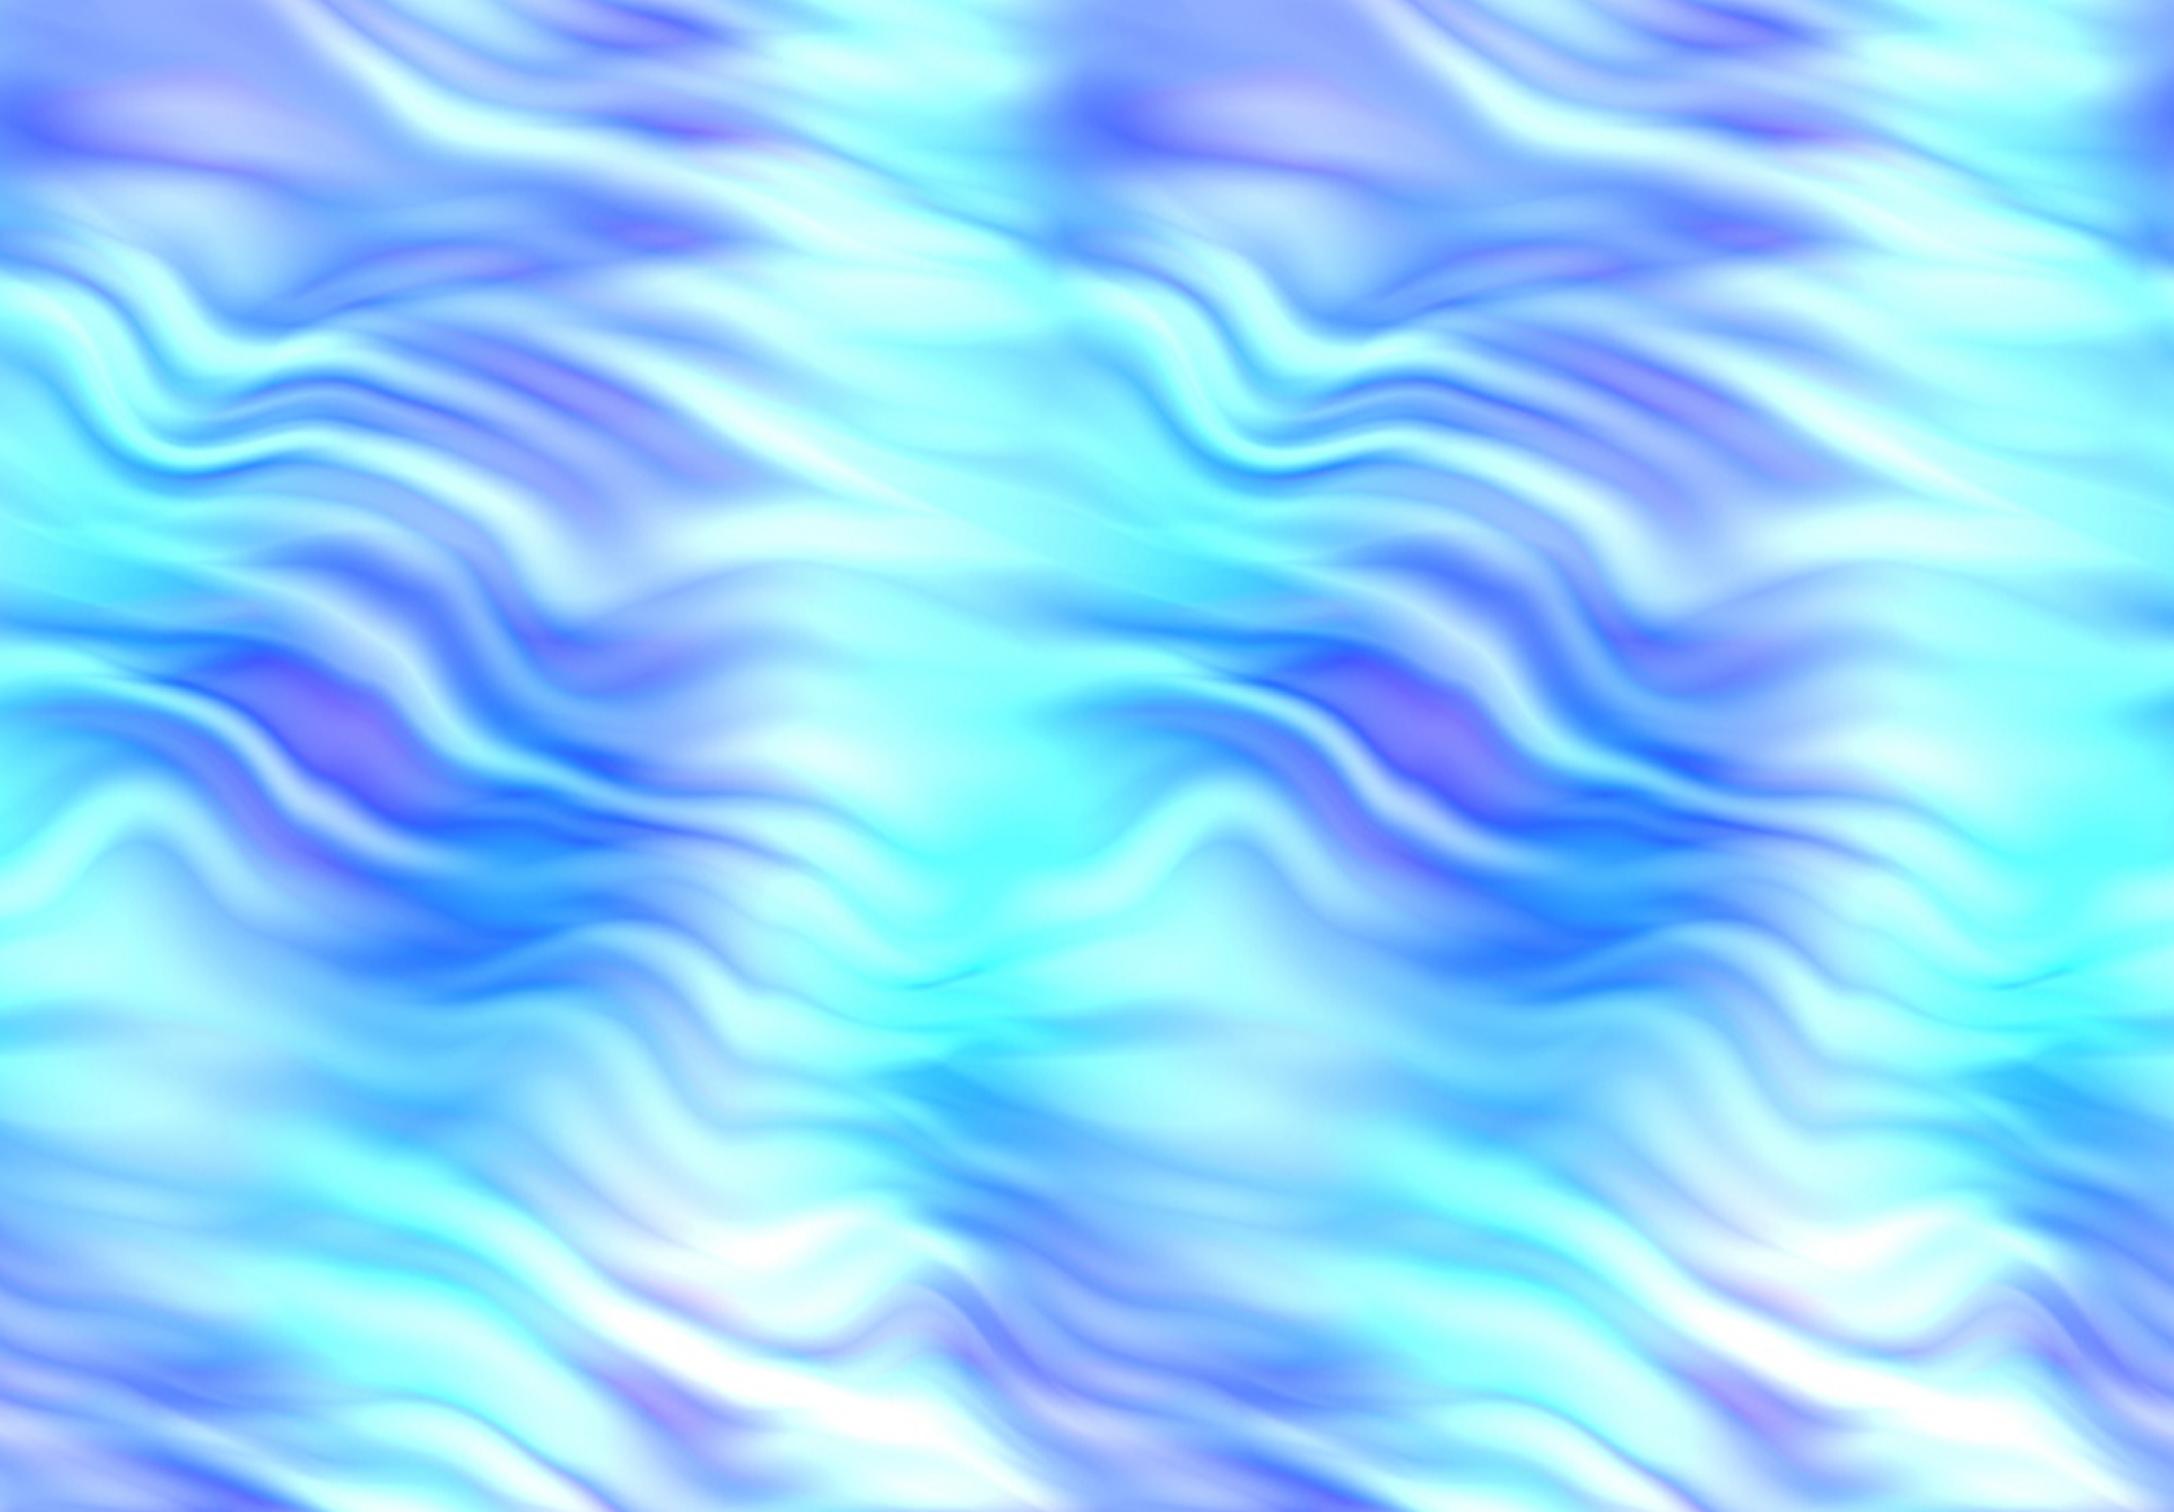
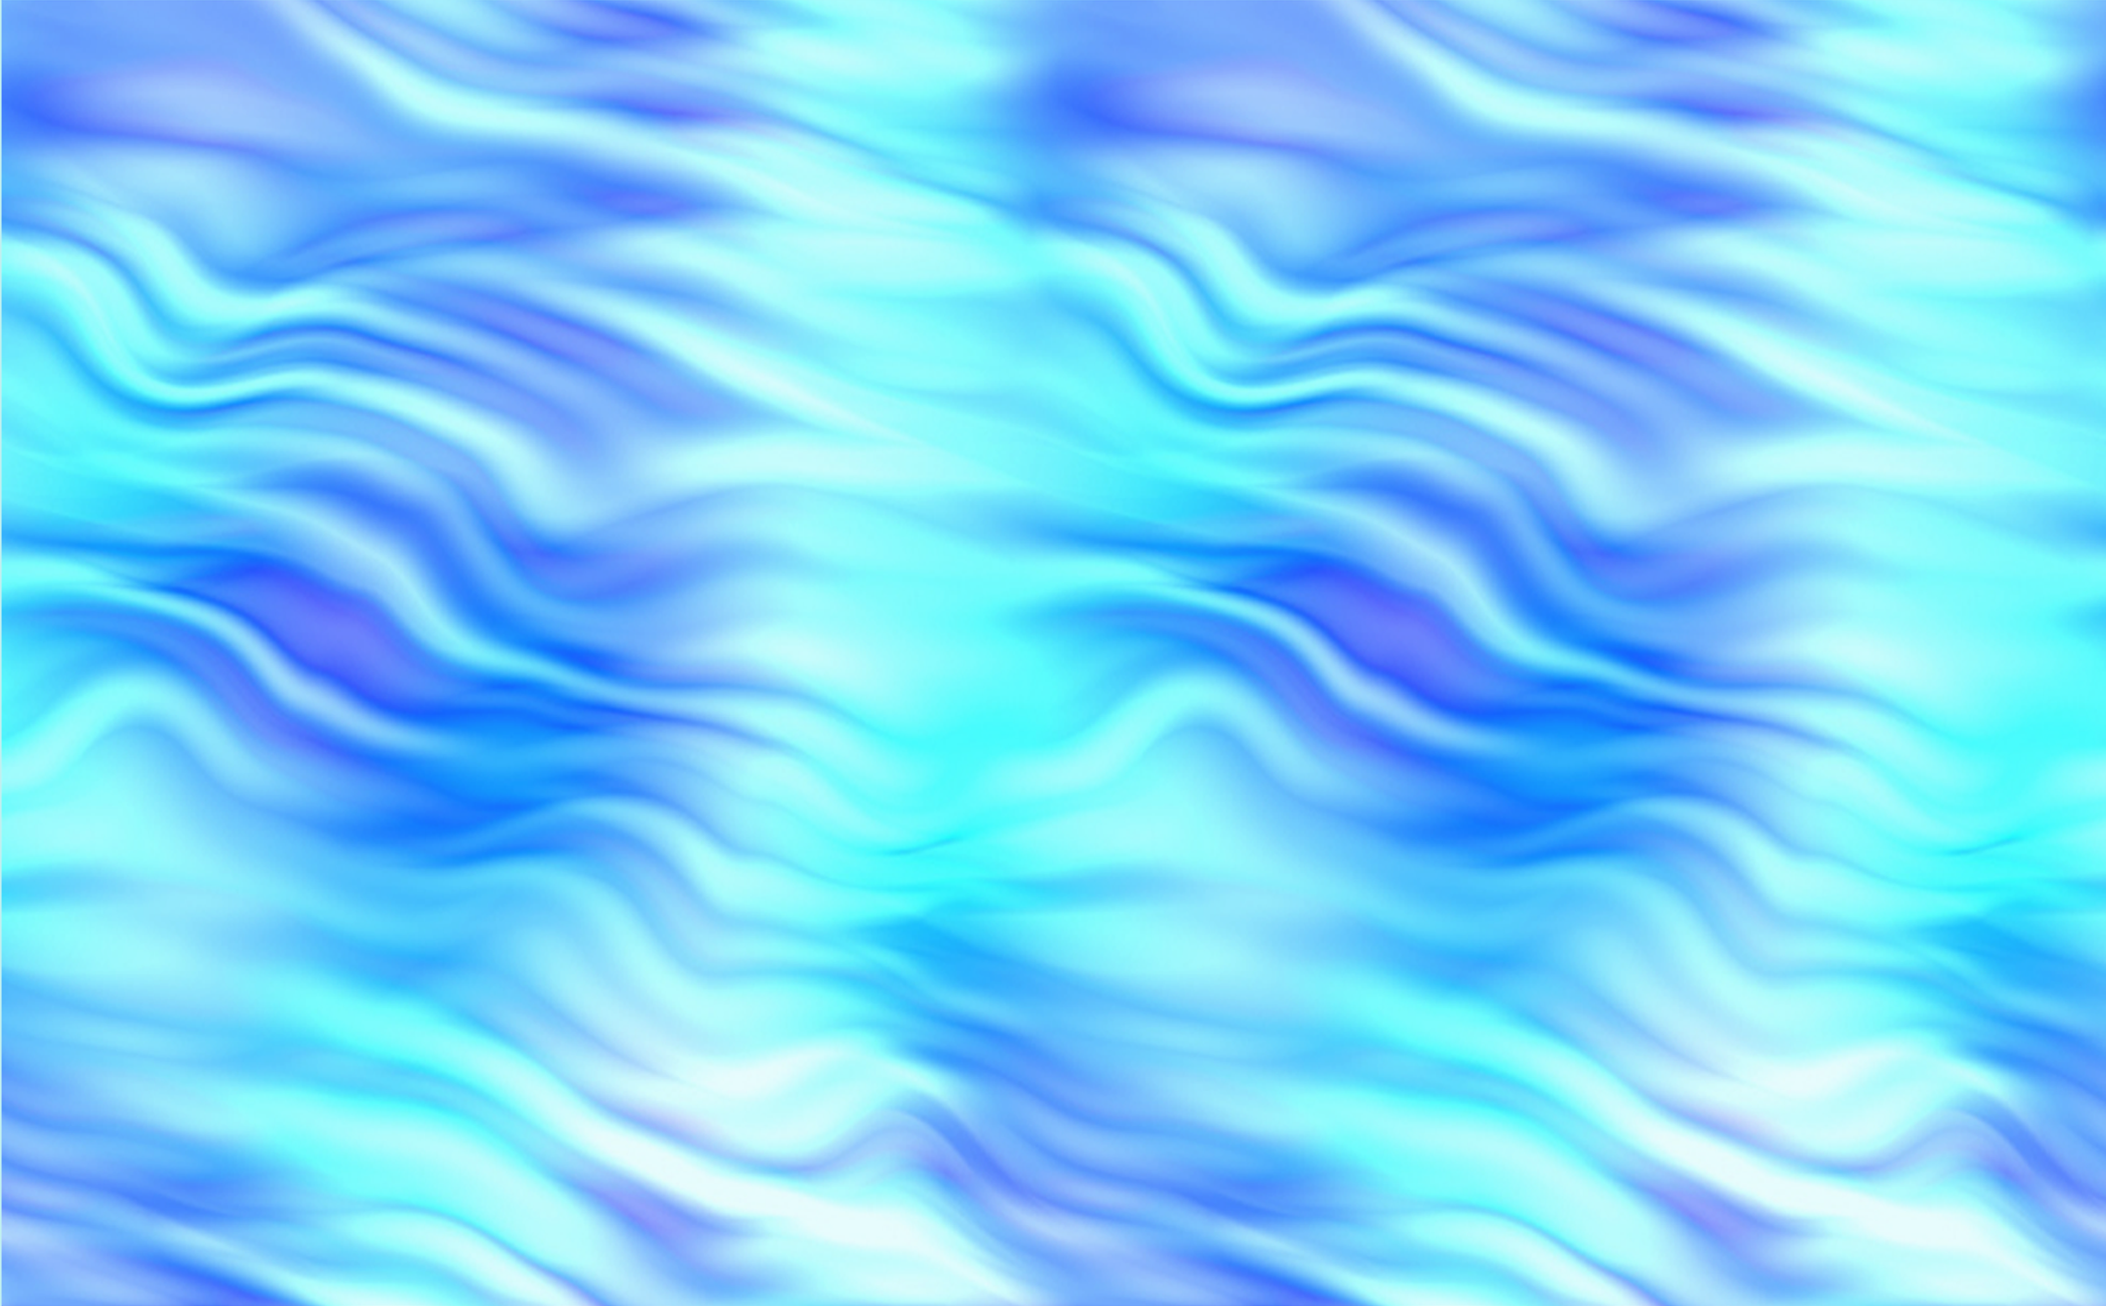
Added Heimeid animations, fixed waves so they're no longer laggy, added start screen, and other smaller changes

diff --git a/script/game/heimeidendrawables.js b/script/game/heimeidendrawables.js
@@ -113,6 +113,7 @@ Actor.extend({
     speed : 0,
     absoluteSpeed : 0,
     animations : [],
+    goDie : false,
     deathAnimation : -1, // animation(index) to play before dying, none if -1
     solid : true, // if false, it can move while colliding with objects
     reach : 1, // used for checking movement collisions
@@ -157,14 +158,19 @@ Actor.extend({
     update : function() {
         this.syncPause();
         if (PlayerData.paused) return;
-        var other;
-        this.onUpdate();
-        if (this.direction && this.speed) {
-            if (other = !this.checkCollide({x:this.calculateMove(),
-                                            y:this.position.y})) {
-                this.move();
-            } else if (!this.solid || (other && !other.solid)) {
-                this.move();
+        if (this.goDie) {
+            this.goDie = false;
+            this.die();
+        } else {
+            var other;
+            this.onUpdate();
+            if (this.direction && this.speed) {
+                if (other = !this.checkCollide({x:this.calculateMove(),
+                                                y:this.position.y})) {
+                    this.move();
+                } else if (!this.solid || (other && !other.solid)) {
+                    this.move();
+                }
             }
         }
     },
@@ -231,10 +237,19 @@ Actor.extend({
                 if (this.deathAnimation == -1) {
                     this.die();
                 } else {
-                    this.showAnimation(this.deathAnimation);
+                    this.showActorAnimation(this.deathAnimation);
                 }
             }
             this.onChangeHealth();
+        }
+    },
+    animatedDie : function() {
+        if (this.deathAnimation >= 0) {
+            this.showActorAnimation(this.deathAnimation);
+            return 1;
+        } else {
+            this.die();
+            return 0;
         }
     },
     /* calls the onDeath function and removes the actor from
@@ -251,9 +266,14 @@ Actor.extend({
         }
         this.parent.removeDrawable(this);
     },
+    showActorAnimation : function(animation) {
+        if (this.currentAnimationIndex === this.deathAnimation) return;
+
+        this.showAnimation(animation);
+    },
     onAnimationComplete : function(currentAnimation) {
         if (currentAnimation === this.deathAnimation) {
-            this.die();
+            this.goDie = true;
         } else {
             this.customOnAnimationComplete(currentAnimation);
         }
@@ -342,6 +362,7 @@ Defence.extend({
                 settings.defenseSize.y*settings.tileSize.y),
     animations : ["./animation/temp_defence"],
     attackTimer : 0,
+    attackMode : false,
     collisionTag : collisionDefence,
     cooldown : settings.defenceCooldown,
     range : settings.defenceRange,
@@ -366,13 +387,26 @@ Defence.extend({
         }
         return false;
     },
+    enterAttackMode : function() {
+        this.attackMode = true;
+    },
+    exitAttackMode : function() {
+        this.attackMode = false;
+    },
     onUpdate : function () {
         if (this.attackTimer > 0) {
             this.attackTimer -= deltaTime;
         }
-        if (this.attackTimer <= 0 && this.enemyInRange()) {
-            this.attack();
-            this.attackTimer = this.cooldown;
+        if (this.enemyInRange()) {
+            if (this.attackMode == false) {
+                this.enterAttackMode();
+            }
+            if (this.attackTimer <= 0) {
+                this.attack();
+                this.attackTimer = this.cooldown;
+            }
+        } else if (this.attackMode == true) {
+            this.exitAttackMode();
         }
     },
     onDeath : function () {
@@ -386,13 +420,41 @@ ShootingDefence.extend({
     "./animation/heimeid/attack_wait", "./animation/heimeid/attack",
     "./animation/heimeid/die"],
     bullet : null,
+    goSpawnBullet : false,
+    attackAnimation : 3,
     deathAnimation : 4,
-    attack : function () {
-        this.parent.spawnActor(vec2(
+    onUpdate : function() {
+        Defence.onUpdate.apply(this);
+        if (this.goSpawnBullet) {
+            this.goSpawnBullet = false;
+            this.parent.spawnActor(vec2(
                     this.position.x + this.size.x/2 - this.bullet.size.x/2,
                     this.position.y + this.size.y/2 - this.bullet.size.y/2),
                 this.bullet,
                 settings.bulletLayer);
+            this.endAttack();
+        }
+    },
+    enterAttackMode : function() {
+        this.attackMode = true;
+        this.showActorAnimation(2);
+    },
+    exitAttackMode : function() {
+        this.attackMode = false;
+        this.showActorAnimation(0);
+    },
+    attack : function () {
+        this.showActorAnimation(this.attackAnimation);
+    },
+    endAttack : function() {
+        this.showActorAnimation(2);
+    },
+    customOnAnimationComplete : function(currentAnimation) {
+        switch(currentAnimation) {
+            case this.attackAnimation:
+                this.goSpawnBullet = true;
+                break;
+        }
     }
 });
 
@@ -413,10 +475,10 @@ Dyke.extend({
     },
     onChangeHealth : function() {
         if (this.health < 0.3 * settings.dykeHealth) {
-            this.showAnimation(2);
+            this.showActorAnimation(2);
             this.dykeFloor.changeWaterLevel(2);
         } else if (this.health < 0.7 * settings.dykeHealth) {
-            this.showAnimation(1);
+            this.showActorAnimation(1);
             this.dykeFloor.changeWaterLevel(1);
         }
     },
@@ -579,14 +641,14 @@ DykeFloor.extend({
 
 BackgroundWaves = Model.Drawables.SpriteDrawable.clone();
 BackgroundWaves.extend({
-    size : vec2(2174, 1512),
-    alpha : 0.2,
+    size : vec2(2106, 1306),
+    alpha : 1,
     originPosition : null,
-    radius : 238,
-    rotationSpeed : Math.PI / 128,
+    radius : 108,
+    rotationSpeed : settings.waveSpeed,
     currentRotation : 0,
     onDrawInit : function() {
-        this.load("./images/game/water_waves_small.png");
+        this.load("./images/game/water_waves.png");
         this.originPosition = {
             x : this.position.x - this.radius,
             y : this.position.y - this.radius
@@ -594,7 +656,7 @@ BackgroundWaves.extend({
     },
     update : function() {
         if (PlayerData.paused) return;
-        this.currentRotation += this.rotationSpeed;
+        this.currentRotation += this.rotationSpeed * deltaTime;
         if (this.rotationSpeed > 2 * Math.PI) {
             this.currentRotation = 0;
         }

diff --git a/script/game/heimeiden.js b/script/game/heimeiden.js
@@ -32,6 +32,7 @@ Game.extend({
         this.background.size = vec2(settings.tileSize.x * (settings.tilesPerLane),
                                     settings.tileSize.y * settings.lanes);
         this.background.visible = false;
+        this.background.alpha = 0.99;
         this.background.load("./images/game/water.png");
         this.addDrawable(this.background, settings.backgroundImageLayer);
         for (var i=0; i<this.Lanes.length; i++) {
@@ -74,10 +75,17 @@ Game.extend({
     update : function() {
         if (!PlayerData.paused) {
             this.updateCredits();
-        }
-        if (PlayerData.areWavesFinished) {
-            if (this.countActors("Enemy") == 0) {
-                this.win();
+
+            if (PlayerData.areWavesFinished) {
+                if (this.countActors("Enemy") == 0) {
+                    this.win();
+                }
+            }
+            if (PlayerData.finalCountDown > INACTIVE) {
+                PlayerData.finalCountDown -= deltaTime;
+                if (PlayerData.finalCountDown < 0) {
+                    this.endGame();
+                }
             }
         }
     },
@@ -117,9 +125,12 @@ Game.extend({
         EnemyController.reset();
     },
     buildBuilding : function(position, buildingObject) {
+        if (!PlayerData.canBuild) return;
         if (PlayerData.credits >= buildingObject.cost) {
-            GUI.deselectBuilding();
             PlayerData.credits -= buildingObject.cost;
+            if (settings.deselectIconAfterBuild) {
+                GUI.deselectBuilding();
+            }
             return this.spawnActor(position, buildingObject);
         } else {
             console.log("Not enough credits to build this defence!");
@@ -127,7 +138,7 @@ Game.extend({
     },
     // Spawns an enemy at lane index lane
     spawnEnemy : function(lane) {
-        this.spawnActor(vec2((settings.tilesPerLane-1) * settings.tileSize.x,
+        this.spawnActor(vec2((settings.tilesPerLane) * settings.tileSize.x,
                              lane * settings.tileSize.y),
                         Enemy);
     },
@@ -161,20 +172,19 @@ Game.extend({
         }
         return count;
     },
-    pauseAnimations : function() {
-        for (i=0; i<this.Actors.length; i++) {
-            this.Actors[i].pause();
-        }
-        for (i=0; i<this.Popups.length; i++) {
-            this.Popups[i].pause();
-        }
+    killAllDefences : function() {
+        this.killAllWithName("Platform");
+        this.killAllWithName("Defence");
     },
-    unPauseAnimations : function() {
-        for (i=0; i<this.Actors.length; i++) {
-            this.Actors[i].unpause();
-        }
-        for (i=0; i<this.Popups.length; i++) {
-            this.Popups[i].unpause();
+    killAllWithName : function(name) {
+        for (var i=0; i<this.Actors.length;) {
+            if (this.Actors[i].name == name) {
+                if (this.Actors[i].animatedDie()) {
+                    i++;
+                }
+            } else {
+                i++;
+            }
         }
     },
     wavesFinished : function() {
@@ -182,11 +192,13 @@ Game.extend({
     },
     win : function() {
         console.log("You win the game!");
-        this.endGame();
+        PlayerData.finalCountDown = settings.timeUntilFreeze;
     },
     lose : function() {
         console.log("You lost the game!");
-        this.endGame();
+        this.killAllDefences();
+        PlayerData.canBuild = false;
+        PlayerData.finalCountDown = settings.timeUntilFreeze;
     },
     endGame : function() {
         PlayerData.paused = true;
@@ -204,6 +216,8 @@ PlayerData = {
     audioEnabled : null,
     areWavesFinished : null,
     selectedBuilding : null,
+    canBuild : null,
+    finalCountDown : null,
     reset : function() {
         this.paused = false;
         this.credits = settings.startingCredits;
@@ -213,6 +227,8 @@ PlayerData = {
         this.audioEnabled = true;
         this.areWavesFinished = false;
         this.selectedBuilding = null;
+        this.canBuild = true;
+        this.finalCountDown = INACTIVE;
     }
 };
 

diff --git a/script/game/gui.js b/script/game/gui.js
@@ -1,5 +1,5 @@
-buildingSelectButton = Model.Drawables.ButtonDrawable.clone()
-buildingSelectButton.extend({
+BuildingSelectButton = Model.Drawables.ButtonDrawable.clone()
+BuildingSelectButton.extend({
     name : "buildingSelectButton",
     visible : false,
     building : null,
@@ -48,6 +48,7 @@ GUI.extend({
     sideImage : Model.Drawables.SpriteDrawable.clone(),
     upImage : Model.Drawables.SpriteDrawable.clone(),
 
+    splashscreen : Model.Drawables.SpriteDrawable.clone(),
     startButton : Model.Drawables.ButtonDrawable.clone(),
 
     fpsTextBox : Model.Drawables.TextDrawable.clone(),
@@ -60,6 +61,7 @@ GUI.extend({
     init : function() {
         this.game = Game;
         this.active = false;
+        this.initSplash();
         this.initHUD();
         this.initFPS();
         this.initCreditsText();
@@ -67,6 +69,11 @@ GUI.extend({
         this.initButtons();
         this.initMenuBar();
         Model.addDrawable(this);
+    },
+    initSplash : function() {
+        this.splashscreen.load("./images/gui/splashscreen.png");
+        this.splashscreen.size = vec2(1920, 1080);
+        this.addDrawable(this.splashscreen);
     },
     initHUD : function() {
         this.sideImage.visible = false;
@@ -119,13 +126,13 @@ GUI.extend({
         Model.addDrawable(this.menuBar); // has to be clickable outside of GUI
     },
     addBuildingSelectButton : function(building, image) {
-        button = buildingSelectButton.clone();
+        button = BuildingSelectButton.clone();
         button.building = building;
         button.loadBase(image);
 
         var yposition = (this.buildingSelectButtons.length) ? 
          this.buildingSelectButtons[this.buildingSelectButtons.length-1].position.y
-           + buildingSelectButton.size.y + this.buildingSelectButtonSpace
+           + BuildingSelectButton.size.y + this.buildingSelectButtonSpace
          : this.buildingSelectButtonY;
 
         button.position = {x: this.buildingSelectButtonX, y: yposition};
@@ -150,12 +157,14 @@ GUI.extend({
         this.upImage.visible = true;
         this.sideImage.visible = true;
         this.menuBar.visible = true;
+        this.splashscreen.visible = false;
         for (var i=0; i<this.buildingSelectButtons.length; i++) {
             this.buildingSelectButtons[i].visible = true;
         }
         this.removeDrawable(this.startButton);
         this.game.gameStart();
         this.menuBar.soundButton.updateBasepath();
+        this.buildingSelectButtons[0].onclick();
     },
     gameStop : function() {
         this.size.x = 1920;
@@ -165,6 +174,7 @@ GUI.extend({
         this.upImage.visible = false;
         this.sideImage.visible = false;
         this.menuBar.visible = false;
+        this.splashscreen.visible = true;
         for (var i=0; i<this.buildingSelectButtons.length; i++) {
             this.buildingSelectButtons[i].visible = false;
         }

diff --git a/script/game/game.js b/script/game/game.js
@@ -53,3 +53,5 @@ const collisionDefence = 2;
 const collisionPlatform = 3;
 const collisionBullet = 4;
 const collisionShell = 5;
+
+const INACTIVE = -1000;
